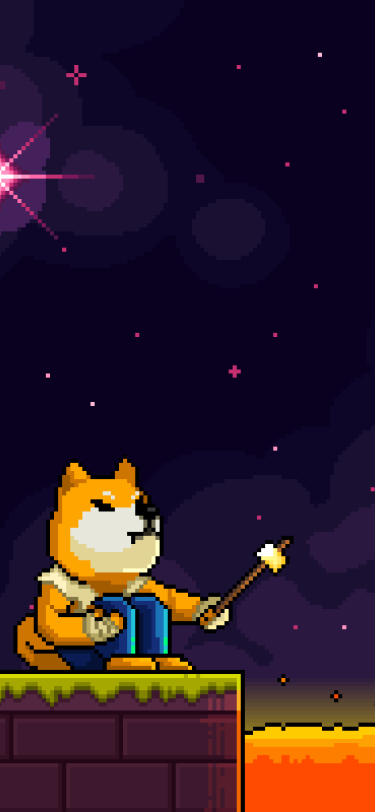
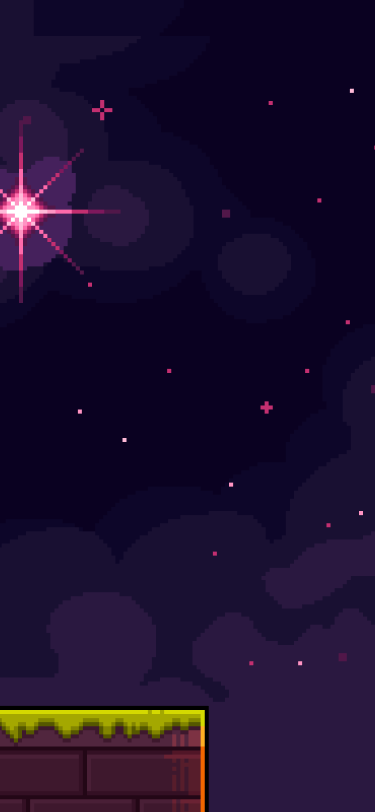
add mobile lottie

diff --git a/src/views/Home/index.tsx b/src/views/Home/index.tsx
@@ -289,13 +289,11 @@ function HomePage() {
                         <StakingForm/>
                     </div>
                     <div className={`absolute ${styles.s1AnimationW}`}>
-                        {isAboveMobile && animations[0]
-                            ? (
-                                <Lottie animationData={animations[0]} loop={true} autoplay={true}/>
-                            )
-                            : (
-                                <div/>
-                            )}
+                        {
+                            isAboveMobile
+                                ? animations[0] && <Lottie animationData={animations[0]} loop autoplay/> || <div/>
+                                : animations[4] && <Lottie animationData={animations[4]} loop autoplay/> || <div/>
+                        }
                     </div>
                 </div>
             </section>
@@ -356,13 +354,11 @@ function HomePage() {
                     </div>
 
                     <div className={`${styles.s3AnimationW}`}>
-                        {isAboveMobile && animations[1]
-                            ? (
-                                <Lottie animationData={animations[1]} loop={true} autoplay={true}/>
-                            )
-                            : (
-                                <div/>
-                            )}
+                        {
+                            isAboveMobile
+                                ? animations[1] && <Lottie animationData={animations[1]} loop autoplay/> || <div/>
+                                : animations[5] && <Lottie animationData={animations[5]} loop autoplay/> || <div/>
+                        }
                     </div>
                 </div>
             </section>
@@ -654,16 +650,11 @@ function HomePage() {
                     </div>
 
                     <div className={`absolute ${styles.s6AnimationW}`}>
-                        {isAboveMobile && animations[2]
-                            ? (
-                                <Lottie animationData={animations[2]} loop={true} autoplay={true}/>
-                            )
-                            : (
-                                <div/>
-                            )}
-                        {!isAboveMobile && (
-                            <Lottie animationData={animations[6]} loop={true} autoplay={true}/>
-                        )}
+                        {
+                            isAboveMobile
+                                ? animations[2] && <Lottie animationData={animations[2]} loop autoplay/> || <div/>
+                                : animations[6] && <Lottie animationData={animations[6]} loop autoplay/> || <div/>
+                        }
 
                     </div>
                 </div>
@@ -692,13 +683,11 @@ function HomePage() {
                         </ul>
                     </ScrollContainer>
                     <div className={`absolute ${styles.s7AnimationW}`}>
-                        {isAboveMobile && animations[3]
-                            ? (
-                                <Lottie animationData={animations[3]} loop={true} autoplay={true}/>
-                            )
-                            : (
-                                <div/>
-                            )}
+                        {
+                            isAboveMobile
+                                ? animations[3] && <Lottie animationData={animations[3]} loop autoplay/> || <div/>
+                                : animations[7] && <Lottie animationData={animations[7]} loop autoplay/> || <div/>
+                        }
                     </div>
                 </div>
 

diff --git a/src/views/Home/index.module.css b/src/views/Home/index.module.css
@@ -435,10 +435,6 @@
 
 
 @media (width <= 1440px) {
-    .s6-section {
-        background-size: 165%;
-    }
-
     .s6-container-w {
         padding-bottom: 35vw;
     }
@@ -448,16 +444,16 @@
 
 @media (width <= 1024px) {
     .s1-container-w {
-        padding-bottom: 50vw;
+        padding-bottom: 60vw;
     }
 
     .s1-animation-w {
         background-color: #798BD4;
         background-image: url("@assets/animation/screen1/tablet/moon.webp"),
-        url("@assets/animation/screen1/tablet/characters.webp"),
-        url("@assets/animation/screen1/tablet/sky.webp");
+        url("@assets/animation/screen1/mobile/floor.webp"),
+        url("@assets/animation/screen1/mobile/sky.webp");
         background-size: 112px 112px, 100% auto, 100% auto;
-        background-position: 60px -60px, bottom, bottom;
+        background-position: -20px 10px, bottom, bottom;
         background-repeat: no-repeat;
     }
 
@@ -504,25 +500,22 @@
         padding-top: 20vw;
     }
 
-    .s6-section {
-        background-image: url("@assets/animation/screen3/tablet/BgSteps.webp");
-        background-size: cover;
-    }
 
     .s6-container-w {
         padding-top: 126px;
-        padding-bottom: 60vw;
+        padding-bottom: 75vw;
     }
 
     .s7-animation-w {
-        background-image: url("@assets/animation/screen4/tablet/FAQ.webp");
+        background-image: url("@assets/animation/screen4/mobile/s4-bg-mobile.webp");
         background-size: cover;
         background-position: bottom;
+        background-color: var(--blue-4);
     }
 
     .s7-container-w {
         padding-top: 146px;
-        padding-bottom: 60vw;
+        padding-bottom: 85vw;
     }
 
 }
@@ -544,16 +537,6 @@
     .s1-h1-content-w {
         max-width: 400px;
         place-self: center;
-    }
-
-    .s1-animation-w {
-        background-color: #798BD4;
-        background-image: url("@assets/animation/screen1/tablet/moon.webp"),
-        url("@assets/animation/screen1/mobile/characters.webp"),
-        url("@assets/animation/screen1/mobile/sky.webp");
-        background-size: 112px 112px, 100% auto, 100% auto;
-        background-position: -20px 10px, bottom, bottom;
-        background-repeat: no-repeat;
     }
 
     .s3-container-w {
@@ -641,16 +624,8 @@
         padding: 24px;
     }
 
-    .s6-section {
-        background-image: url("@assets/animation/screen3/mobile/BgSteps-mobile.webp");
-    }
-
     .s6-container-w {
         padding-bottom: 120vw;
-    }
-
-    .s7-animation-w {
-        background-image: url("@assets/animation/screen4/mobile/FAQ-mobile.webp");
     }
 
     .s7-container-w {

diff --git a/src/components/Footer/index.tsx b/src/components/Footer/index.tsx
@@ -10,14 +10,15 @@ import TwitterXIcon from '@icon/twitterX-20.svg';
 import useAnimationsLoader from '@hooks/useAnimationsLoader.ts';
 
 const animationsLottie = [
-    () => import('@assets/animation/screen5/screen6.json')
+    () => import('@assets/animation/screen5/screen6.json'),
+    () => import('@assets/animation/screen5/screen5_mobile.json')
 ];
 
 const Lottie = React.lazy(() => import('lottie-react'));
 
 function Footer() {
     const {animations, isAboveMobile} = useAnimationsLoader(
-        '(min-width: 1025px)',
+        '(min-width: 768px)',
         animationsLottie
     );
 
@@ -42,13 +43,11 @@ function Footer() {
                     </BaseButton>
                 </div>
                 <div className={`${styles.footerAnimationW}`}>
-                    {isAboveMobile && animations[0]
-                        ? (
-                            <Lottie animationData={animations[0]} loop={true} autoplay={true}/>
-                        )
-                        : (
-                            <div/>
-                        )}
+                    {
+                        isAboveMobile
+                            ? animations[0] && <Lottie animationData={animations[0]} loop autoplay/> || <div/>
+                            : animations[1] && <Lottie animationData={animations[1]} loop autoplay/> || <div/>
+                    }
                 </div>
                 <div className={styles.copyTextW}>
                     <p className={'body-s-2 text-color-monochrome-1'}>

diff --git a/src/components/Footer/index.module.css b/src/components/Footer/index.module.css
@@ -2,6 +2,7 @@
     background-image: url("@assets/animation/screen5/footer-bg.webp");
     background-size: auto 102%;
     background-position: bottom;
+    overflow: hidden;
 }
 
 .footer-container-w {
@@ -51,11 +52,14 @@
         background-image: none;
     }
 
+    .footer-animation-w {
+        width: 155%;
+    }
+
     .footer-container-w {
-        padding-top: 193px;
-        padding-bottom: 380px;
-        background-image: url("@assets/animation/screen5/BgFooterTablet.webp");
-        background-size: cover;
+        padding-top: 20vw;
+        padding-bottom: 35vw;
+        background-size: 200% auto;
     }
 
     .copy-text-w {
@@ -68,7 +72,14 @@
 @media (width <= 767px) {
     .footer-container-w {
         padding-top: 30vw;
-        padding-bottom: 140vw;
+        padding-bottom: 120vw;
         background-image: url("@assets/animation/screen5/BgFooterMobile.webp");
+        background-size: 100% auto;
+        background-color: var(--blue-1);
+
+    }
+
+    .footer-animation-w {
+        width: 100%;
     }
 }
